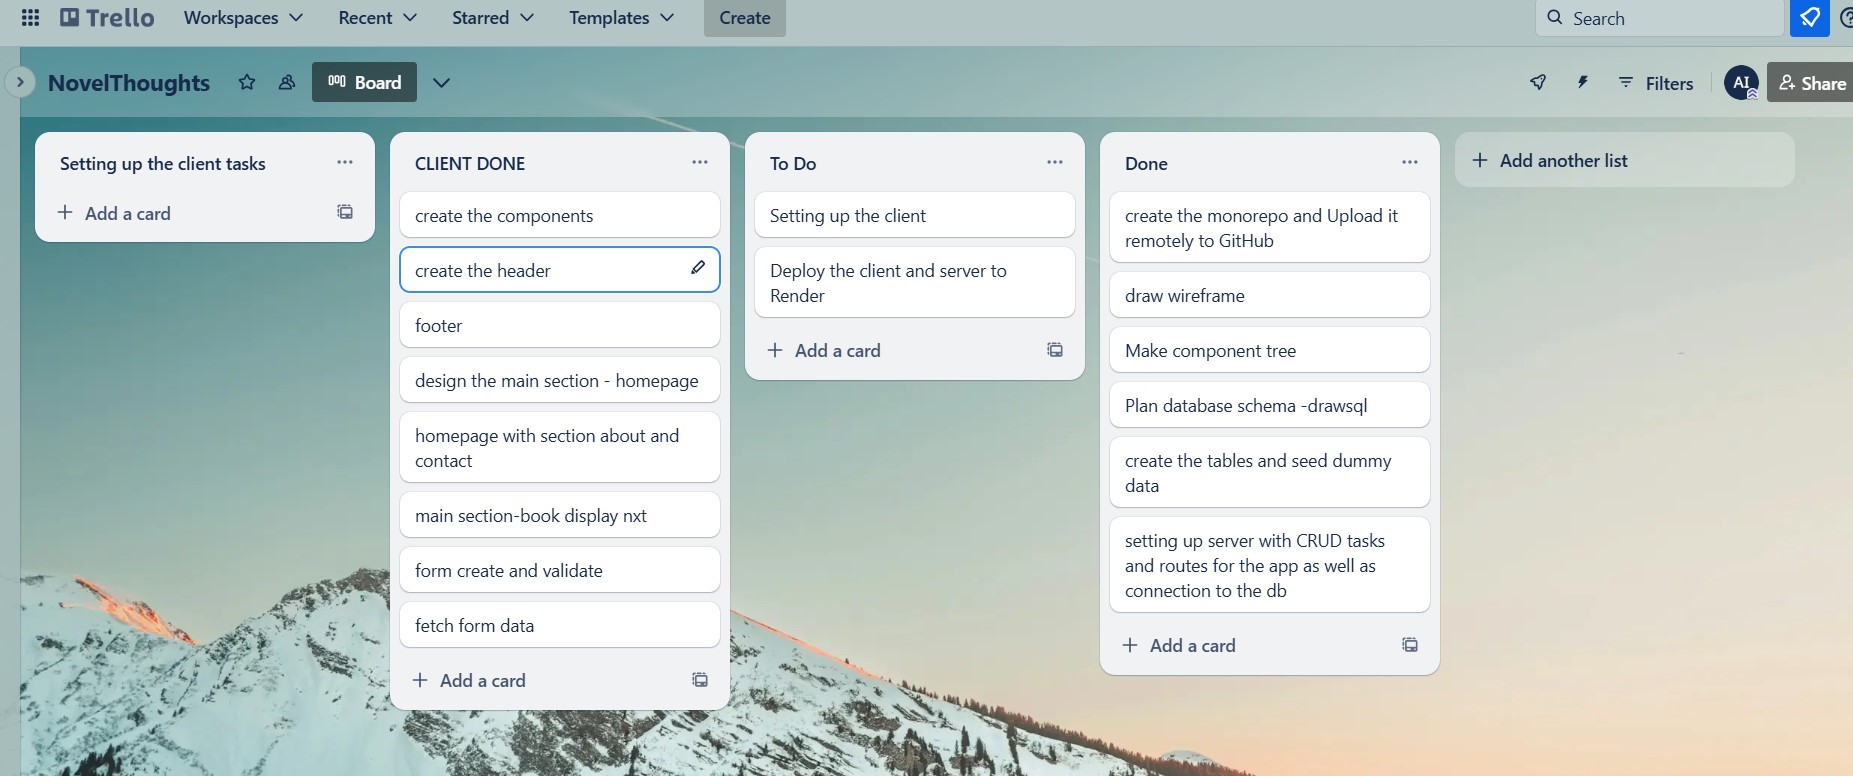
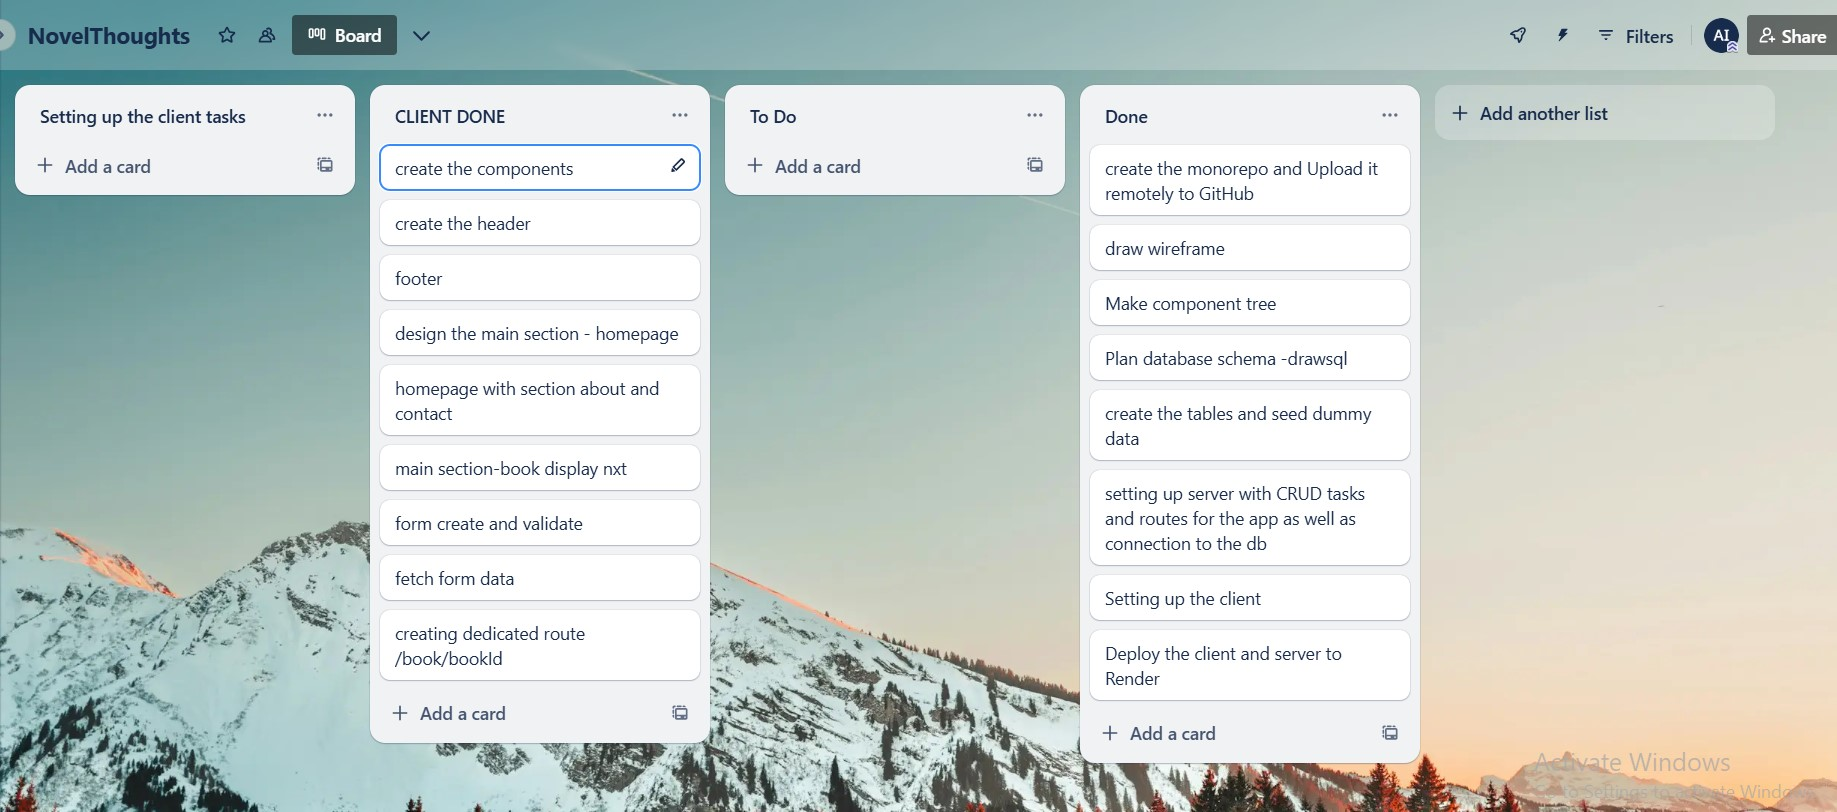
done delete button and the dedicated route

diff --git a/client/src/components/BookDetails.jsx b/client/src/components/BookDetails.jsx
@@ -1,32 +1,32 @@
 import { useParams } from "react-router-dom";
 import "./BookDetails.css";
-import { useEffect, useState } from "react";
+import { Link } from "react-router-dom";
+import "./Books.css";
 
 export default function BookDetails() {
-  const { bookId } = useParams();
+  let { bookId } = useParams();
 
-  const [singleBook, setsingleBook] = useState(null);
-
-  useEffect(() => {
-    async function fetchBookDetails() {
-      const response = await fetch(
-        `https://novelatticserver.onrender.com/novels/${bookId}`
-      );
-      const bookData = await response.json();
-      setsingleBook(bookData);
-    }
-    fetchBookDetails();
-  }, [bookId]);
-
+  console.log("Book ID from URL:", bookId);
   return (
     <>
-      <h2>book id number {bookId}</h2>
+      <div className="bookdetailpage">
+        <h1>Hello suprise!!!</h1>
 
-      <div className="book-details">
-        <h2>{singleBook.title}</h2>
-        <h4>{singleBook.author}</h4>
-        <img src={singleBook.src} alt={singleBook.title} />
-        <p>{singleBook.synopsis}</p>
+        <h2>book clicked id number {bookId}</h2>
+
+        <div className="BookNavLinks">
+          <Link to="/">
+            <button>About</button>
+          </Link>
+
+          <Link to="/book">
+            <button>Books</button>
+          </Link>
+
+          <Link to="/contact">
+            <button>Contact</button>
+          </Link>
+        </div>
       </div>
     </>
   );

diff --git a/client/src/components/Section.jsx b/client/src/components/Section.jsx
@@ -1,6 +1,7 @@
 import "./Section.css";
 import "./media.css";
 import { Routes, Route, Link } from "react-router-dom";
+import BookDetails from "./BookDetails";
 import About from "./About";
 import Books from "./Books";
 import Contact from "./Contact";
@@ -34,6 +35,12 @@ export default function Section() {
             <Route path="/" element={<About />} />
             <Route path="/book" element={<Books />} />
             <Route path="/contact" element={<Contact />} />
+
+            {/* here i realised i was tyring to place this route in allbooks and when i clicked
+            on the link yes it went to dedicated route but the content in bookdetails wasn't showing
+            after i swiched the route and linked it here instead of allbooks the page rendered the contents i saved
+             */}
+            <Route path="/book/:bookId" element={<BookDetails />} />
           </Routes>
         </div>
       </section>

diff --git a/client/src/components/Comments.jsx b/client/src/components/Comments.jsx
@@ -48,6 +48,21 @@ export default function Comments() {
     fetchData();
   }, []);
 
+  async function handleDelete(id) {
+    const response = await fetch(
+      `https://novelatticserver.onrender.com/delete-comment/${id}`,
+      {
+        method: "DELETE",
+      }
+    );
+    if (response.ok) {
+      setcomments(comments.filter((comment) => comment.id !== id));
+      alert("Comment deleted successfully");
+    } else {
+      alert("Failed to delete comment");
+    }
+  }
+
   return (
     <>
       <section className="section">
@@ -110,6 +125,9 @@ export default function Comments() {
                 <h5>book Id:{comment.booksid}</h5>
                 {/* <h6>{comment.email}</h6> */}
                 <p>"{comment.comment}"</p>
+
+                {/* adding delete button to each */}
+                <button onClick={() => handleDelete(comment.id)}>Delete</button>
               </div>
             ))
           )}

diff --git a/client/src/components/Books.jsx b/client/src/components/Books.jsx
@@ -1,6 +1,5 @@
 import { Routes, Route, Link } from "react-router-dom";
 import AllBooks from "./AllBooks";
-// import BookDetails from "./BookDetails";
 import Comments from "./Comments";
 import "./Books.css";
 export default function Books() {
@@ -11,8 +10,8 @@ export default function Books() {
         <div className="ViewSection">
           <Routes>
             <Route path="/" element={<AllBooks />} />
-            {/* <Route path="/book/:bookId" element={<BookDetails />} /> */}
           </Routes>
+
           <Comments />
         </div>
         <div className="BookNavLinks">

diff --git a/server/server.js b/server/server.js
@@ -122,11 +122,9 @@ app.put("/update-comment/:id", async (req, res) => {
 
 //deleting user comment
 app.delete("/delete-comment/:id", async (req, res) => {
-  const paramsToDeleteuserComments = req.params;
+  const { id } = req.params;
 
-  const query = await db.query(`DELETE FROM userComments WHERE id= $1`, [
-    paramsToDeleteuserComments.id,
-  ]);
+  const query = await db.query(`DELETE FROM userComments WHERE id = $1`, [id]);
   res.json({
     message: "You have performed a destructive operation!!!",
   });

diff --git a/client/src/components/AllBooks.jsx b/client/src/components/AllBooks.jsx
@@ -114,10 +114,10 @@ export default function AllBooks() {
                 <div key={book.id} className="singleBook">
                   <img src={`${book.src}`} alt={book.title} />
 
-                  {/* <Link to={`/book/${book.id}`}>
+                  <Link to={`/book/${book.id}`}>
                     <h4>{book.title}</h4>
-                  </Link> */}
-                  <h4>{book.title}</h4>
+                  </Link>
+
                   <h5>book Id:{book.id} </h5>
                 </div>
               ))

diff --git a/client/src/components/BookDetails.css b/client/src/components/BookDetails.css
@@ -1,5 +1,5 @@
-.book-details {
+.bookdetailpage {
   display: flex;
   flex-direction: column;
-  min-height: 40vh;
+  font-size: 3rem;
 }

diff --git a/README.md b/README.md
@@ -14,6 +14,10 @@ Please also provide an assignment reflection in your project README.md file.
     -Designing a database schema, and seed the database with some realistic data. - Use SQL to retrieve posts from the database in your Express server.
 
     -Displaying all posts using .map().
+    -using react router dom to cretae dynamic pages
+    -creating dedicated routes /book/:bookId
+
+    -managed to add adelete button and it works well now , previosuly i had setup the query in the server.
 
 -Were there any requirements or goals that you were unable to achieve?
 
@@ -33,6 +37,16 @@ Please also provide an assignment reflection in your project README.md file.
 
 - What useful external sources helped you complete the assignment (e.g Youtube tutorials)?
 
+  when having issues i would go back and watch the specific video on that topic from class and go through the demo codes a lot in regards to what i am tackling.
+
+  -https://youtu.be/jWWW9Wyl0mY?si=NSSCaA6OZeTDKTnN
+  to understand how to delete using .filter
+
 - What errors or bugs did you encounter while completing your assignment? How did you solve them?
 
+  when trying to have a dedicated route /book/:bookId the book details jsx i saved a simple message but it wasn't showing
+  when i went to that page after clcking the link . it was when i moved the route to section.jsx along with where the routes to about, contact and books are did that work.
+
 - What went really well and what could have gone better?
+
+  form validation and fetching the data. i have a good understanding of it now and what could have gone better if i were to be able to add update forms and adding additional queries.
